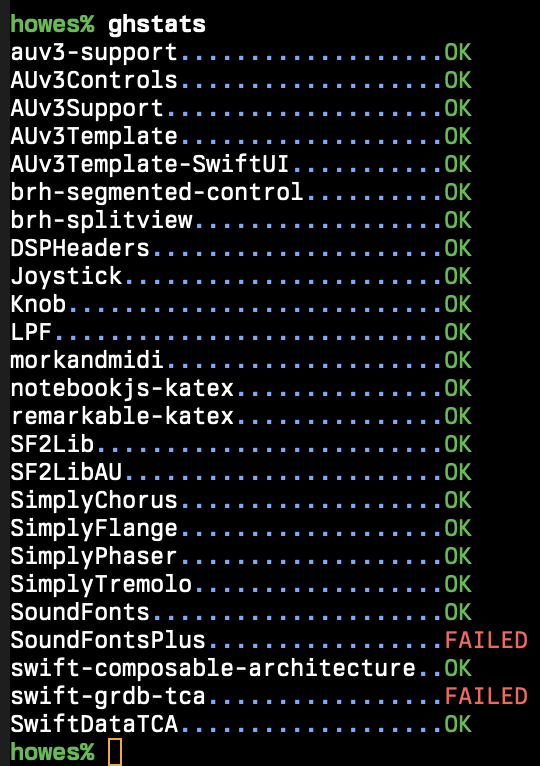
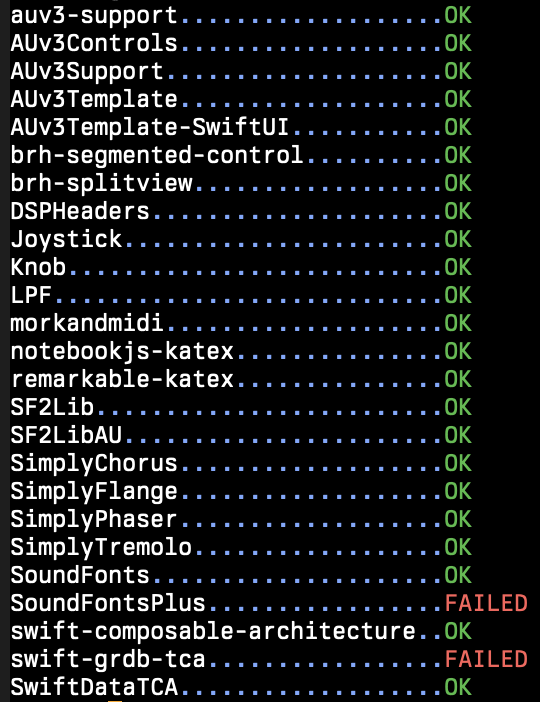
Updates

diff --git a/ghstats.py b/ghstats.py
@@ -68,6 +68,7 @@ def run(gh_token: str) -> None:
         if flow.name == 'CI':
           for run in flow.get_runs():
             results.append(Status(repo.name, run.created_at, State.from_conclusion(run.conclusion)))
+            print(".", end='', flush=True)
             break
           break
 
@@ -82,6 +83,7 @@ def run(gh_token: str) -> None:
     print('*** nothing found')
     return
 
+  print('')
   max_name_width = max([len(r.repo) for r in results])
   for result in sorted(results):
     result.show(max_name_width)
@@ -92,5 +94,5 @@ if __name__ == '__main__':
   if gh_token is None:
     print("*** GITHUB_TOKEN is undefined")
     sys.exit(1)
-
+    
   run(gh_token)

diff --git a/README.md b/README.md
@@ -39,6 +39,7 @@ Once done, you should be all set to run:
 
 ```
 % ./ghstats
+.........................
 auv3-support...................OK
 AUv3Controls...................OK
 AUv3Support....................OK
@@ -66,5 +67,5 @@ swift-grdb-tca.................FAILED
 SwiftDataTCA...................OK
 ```
 
-> [!TIP]
-> The script can take several seconds to return
+The `.` indicators at the start show the responses arriving from GitHub. The script delays the final output until it
+receives everything from GitHub at which point it sorts the output by repository name.
